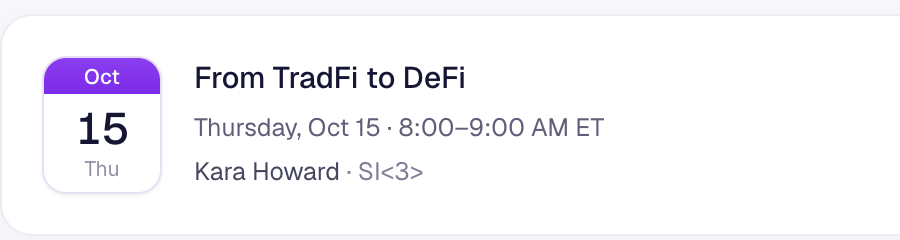
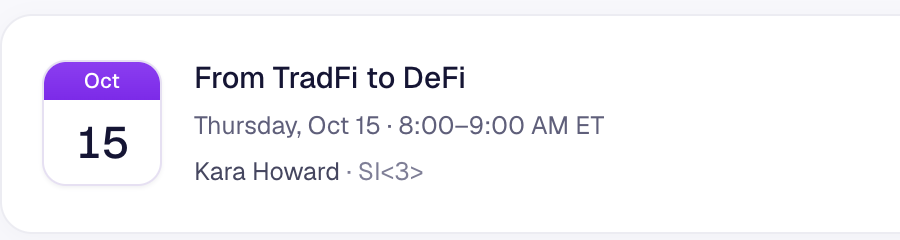
Session card trial: date tile shows month and day only

diff --git a/src/app/(app)/dashboard/page.tsx b/src/app/(app)/dashboard/page.tsx
@@ -181,11 +181,10 @@ function SessionCard({ m, onSchedule }: { m: Module; onSchedule: (m: Module) => 
   return (
     <div className="flex flex-col gap-4 rounded-2xl border border-[#ececf2] bg-white p-4 shadow-[0_2px_12px_rgba(23,23,48,0.03)] transition hover:border-[#dcd0f2] sm:flex-row sm:items-center sm:p-5">
       <div className="flex min-w-0 flex-1 items-center gap-4">
-        {/* a small calendar page: month on a brand strip, the day, then the weekday */}
+        {/* a small calendar page: month on a brand strip, then the day */}
         <div className="w-[60px] shrink-0 overflow-hidden rounded-xl border border-[#e6e0f2] bg-white text-center leading-none shadow-[0_1px_2px_rgba(23,23,48,0.06)]" aria-hidden="true">
           <div className="bg-gradient-to-b from-[#8b3df0] to-[#7c2ae8] py-1 text-[10.5px] font-medium text-white">{when.month}</div>
-          <div className="pt-1.5 text-[22px] font-medium tabular-nums tracking-[-0.02em] text-[#151534]">{when.day}</div>
-          <div className="pb-1.5 pt-1 text-[10.5px] text-[#8e8ea6]">{when.weekday.slice(0, 3)}</div>
+          <div className="py-2.5 text-[22px] font-medium tabular-nums tracking-[-0.02em] text-[#151534]">{when.day}</div>
         </div>
         <div className="min-w-0">
           <h3 className="truncate text-[15px] font-medium text-[#151534]">{m.title}</h3>

diff --git a/docs/handoff/02-dashboard/README.md b/docs/handoff/02-dashboard/README.md
@@ -58,7 +58,7 @@ Screenshot: `after-sessions-more.jpg`.
 ## Upcoming session card (trial, first row only)
 Screenshot: `after-session-card-trial.jpg`. Pending approval before it's applied to every row.
 - **Why:** the old rows printed the CMS's free-text `dateLabel`, so formats differed ("Thursday, October 15, 2026 · 12:00–1:00 PM ET" vs "Oct 22 · 12–1 PM ET"), and the "Opens Oct 15" pill repeated the date.
-- **New card:** date tile on the left, styled as a small calendar page: purple strip with the month, the day large, short weekday under it (`after-session-date-tile.png`), then title (15px), "Thursday, Oct 15 · 12:00–1:00 PM ET", then speaker · company (no monogram box). "Add to calendar" on the right (full width under the content on mobile); once added it turns green, "In your calendar". Solid border, white card; the "Opens" pill is gone.
+- **New card:** date tile on the left, styled as a small calendar page: purple strip with the month, the day large (`after-session-date-tile.png`), then title (15px), "Thursday, Oct 15 · 12:00–1:00 PM ET", then speaker · company (no monogram box). "Add to calendar" on the right (full width under the content on mobile); once added it turns green, "In your calendar". Solid border, white card; the "Opens" pill is gone.
 - **Formatting:** built from `scheduledDate`/`endDate` in US Eastern time with `sessionWhen()` (`src/lib/format.ts`), so every card reads the same whatever is typed in the CMS.
 - **Data issue found:** "From TradFi to DeFi" has `scheduledDate` 12:00 UTC (= 8:00 AM ET) but its label says 12:00–1:00 PM ET. Fix the start/end time in the CMS (should be 16:00–17:00 UTC).
 - **CMS fix:** Kara Howard's sessions should list her company as **SI<3>** (Week 1 had none, Week 2 said "Si Her DeFi"). The prototype's demo data now uses SI<3>.
